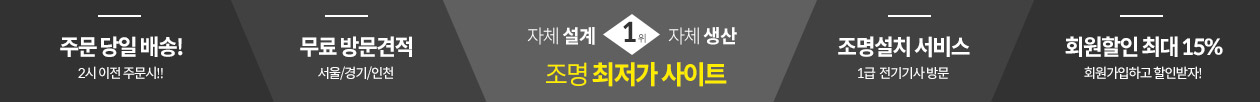
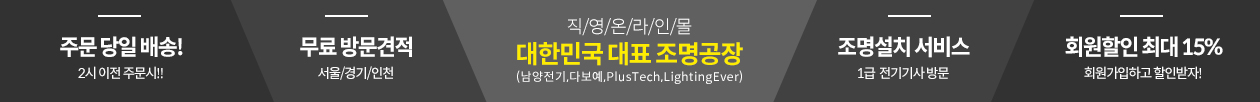
메인배너 변경

Changed region(s): [[0.4024, 0.1471, 0.5881, 0.8529]]

diff --git a/ligthbank/src/mobile1/_wg/import/JS_mainBnr.html b/ligthbank/src/mobile1/_wg/import/JS_mainBnr.html
@@ -10,8 +10,8 @@
 
 <div class="JS_mainBnr">
     <ul class="img">
+		<li><a href="/product/list.html?cate_no=164"><img src="/_wg/img/JS_mainBnr/main_banner_01_180723.jpg"></a></li>
 		<li><a href="/_wg/import/buyingGroup.html"><img src="/_wg/img/JS_mainBnr/main_banner01_190307.png" alt=""></a></li>    
-    	<li><a href="/product/list.html?cate_no=164"><img src="/_wg/img/JS_mainBnr/main_banner_01_180723.jpg"></a></li>
     	<li><a href="/product/list.html?cate_no=100"><img src="/_wg/img/JS_mainBnr/main_banner01_1801217.jpg"></a></li>
     	<li><a href="/product/list.html?cate_no=179"><img src="/_wg/img/JS_mainBnr/main_banner_01_181006.jpg"></a></li>
     	<li><a href="/product/project.html?cate_no=175"><img src="/_wg/img/JS_mainBnr/main_banner_01_180909.jpg" alt=""></a></li>

diff --git a/ligthbank/src/mobile1/layout/basic/main.html b/ligthbank/src/mobile1/layout/basic/main.html
@@ -31,7 +31,7 @@
     
     <div id="wrap">
 		<div class="JS_topBnr">
-		  <a href="/"><img src="/_wg/img/topBanner190213.png" width="100%"></a>
+		  <a href="/"><img src="/_wg/img/topBanner190315.png" width="100%"></a>
 		</div>        
         <div id="container">
             <!-- 헤더 -->
